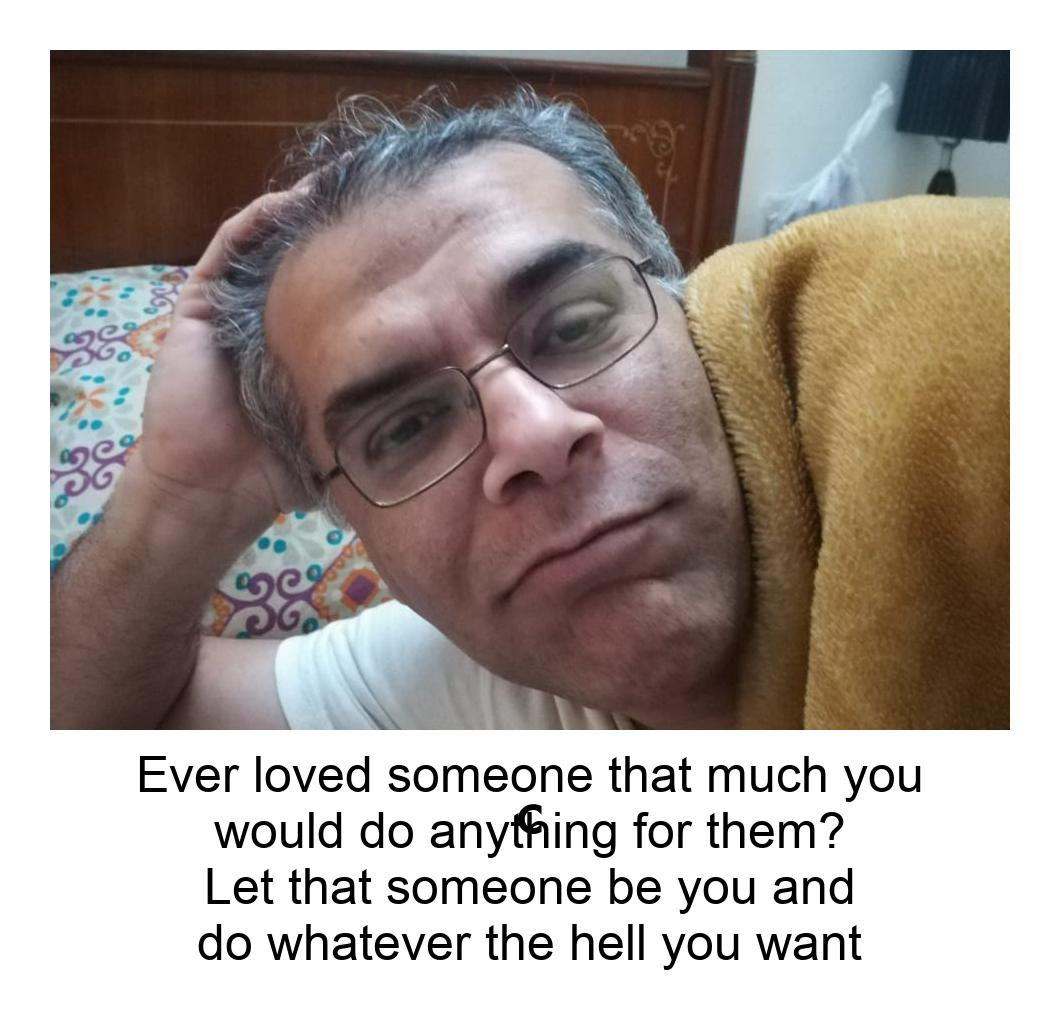
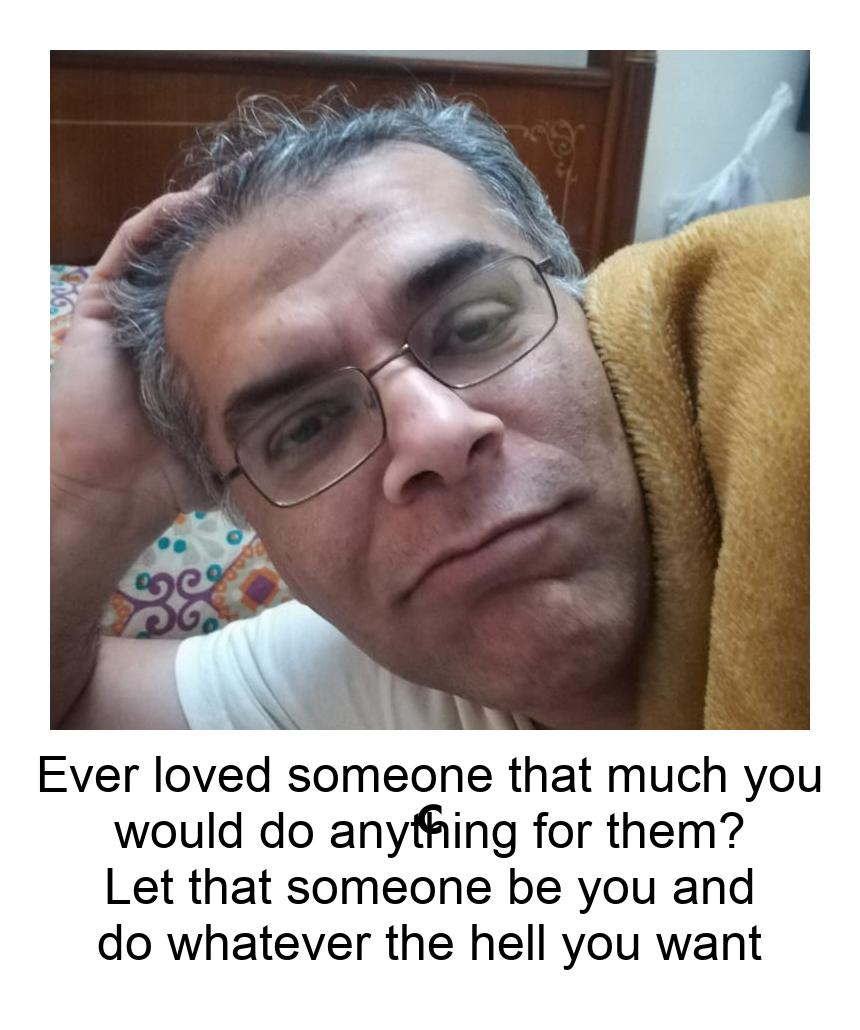
Added test images for callibration

diff --git a/quotes.py b/quotes.py
@@ -13,9 +13,6 @@
 # for i in range(len(data)):
 #     quotes[data[i][0]] = data[i][1]
 
-# with open('data.json', 'w') as fp:
-#     json.dump(quotes, fp)
-
 
 # test = json.load(open('data.json', 'r'))
 # test
@@ -167,3 +164,7 @@ quotes = {
     'Laiba Anwar':	"I am 5 minutes younger than her...",
     'Yushra Anwar':	"...best 5 minutes of my life"
 }
+
+
+# with open('quotes.json', 'w') as fp:
+#     json.dump(quotes, fp)

diff --git a/imgprocessingfunc.py b/imgprocessingfunc.py
@@ -25,8 +25,8 @@ def add_border(input_img):
 
 def cropit(im):
     width, height = im.size
-    right = width
-    left = 0  # will span the entire length of the image
+    right = width-100
+    left = 100  # will span the entire length of the image
     top = 300
     bottom = height - top
     im1 = im.crop((left, top, right, bottom))
